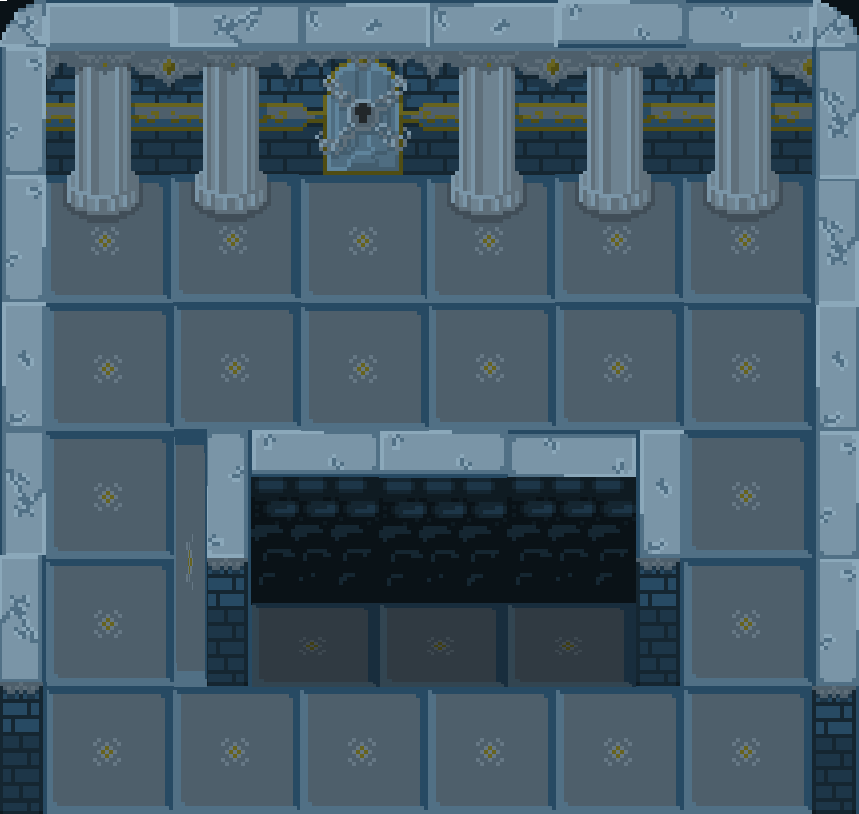
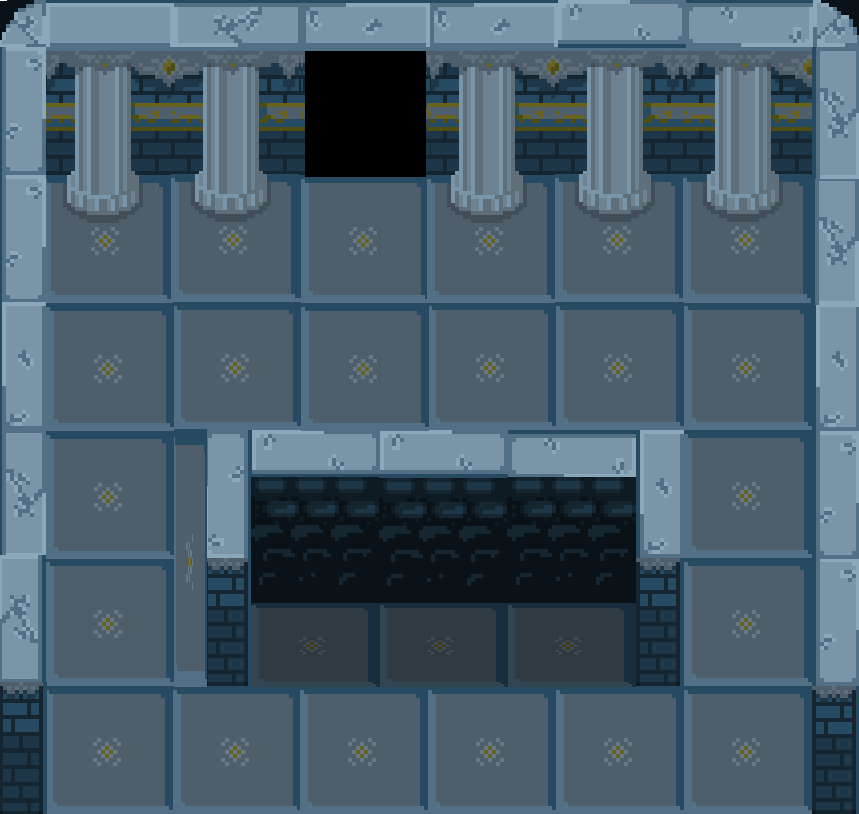
Brigham's Level finished

Changed region(s): [[0.3329, 0.0614, 0.5146, 0.215]]

diff --git a/src/main/java/game/BrighamLevel.java b/src/main/java/game/BrighamLevel.java
@@ -3,6 +3,7 @@ package game;
 import engine.display.Sprite;
 
 import java.awt.*;
+import java.awt.geom.Rectangle2D;
 import java.util.ArrayList;
 
 /**
@@ -20,9 +21,16 @@ public class BrighamLevel extends Room {
     Platform leftCollider;
     Platform collider3;
     Platform rightCollider;
-    Platform collider6;
-    Platform collider7;
-    Platform collider8;
+    Platform collider4;
+    Platform doorCollider;
+    Platform wallCollider;
+    Platform thinWallLeft;
+    Platform thinWallRight;
+
+    Enemy enemy01;
+    Enemy enemy02;
+    Enemy enemy03;
+
 
     LockedDoor door1;
 
@@ -31,24 +39,85 @@ public class BrighamLevel extends Room {
     }
 
     public void run() {
+        enemy01 = new Enemy("enemy", "resources/gator_sheet.png", "idle left");
+        enemy01.setSpriteSheetJson("resources/gator_sheet.json");
+        enemy01.setDelay(75);
+        enemy01.setPositionX(250);
+        enemy01.setPositionY(680);
+        enemy01.addRoute(0, 1100, 2, 1);
+        enemy01.addRoute(800, 0, 4, 2);
+        enemy01.addRoute(0, -300, 2, 3);
+        enemy01.addRoute(-800, 0, 2, 4);
+        enemy01.addRoute(0, -800, 2, 3);
+
+        enemy01.addRoute(0, 1100, 10, 1);
+        enemy01.addRoute(800, 0, 1, 2);
+        enemy01.addRoute(0, -300, 5, 3);
+        enemy01.addRoute(-800, 0, 4, 4);
+        enemy01.addRoute(0, -800, 4, 3);
+        enemy01.addKey();
+
+        enemy02 = new Enemy("enemy", "resources/gator_sheet.png","idle left");
+        enemy02.setSpriteSheetJson("resources/gator_sheet.json");
+        enemy02.setDelay(75);
+        enemy02.setPositionX(900);
+        enemy02.setPositionY(200);
+        enemy02.addRoute(0,-800,2,3);
+        enemy02.addRoute(0,800,4,1);
+        enemy02.addRoute(3,0,0,2);
+
+        enemy03 = new Enemy("enemy", "resources/gator_sheet.png","idle left");
+        enemy03.setSpriteSheetJson("resources/gator_sheet.json");
+        enemy03.setDelay(75);
+        enemy03.setPositionX(800);
+        enemy03.setPositionY(300);
+        enemy03.addRoute(-800,0,2,3);
+        enemy03.addRoute(800,0,2,2);
+
+
+
+
+//        enemy02 = new Enemy("enemy", "resources/gator_sheet.png", "idle left");
+//        enemy02.setSpriteSheetJson("resources/gator_sheet.json");
+//        enemy02.setDelay(75);
+//        enemy02.setPositionX(700);
+//        enemy02.setPositionY(150);
+//        enemy02.addRoute(0, -800, 2, 3);
+//        enemy02.addRoute(-400, 0, 2, 4);
+//        enemy02.addRoute(0, 800, 2, 1);
+//        enemy02.addRoute(400, 0, 2, 2);
+//        enemy02.addKnife();
+
+        enemies = new ArrayList<>();
+        enemies.add(enemy01);
+        enemies.add(enemy02);
+        enemies.add(enemy03);
+//        enemies.add(enemy02);
+
+
         //map stuff
         map = new Sprite("map", "BrighamLevelFinal.png");
         map.setPositionX(200);
         map.setPositionY(0);
         addChild(map);
 
+        door1 = new LockedDoor("door", "resources/door_opening.png", "door_closed");
+        door1.setSpriteSheetJson("resources/door_opening.json");
+        door1.setDelay(100);
+        door1.setPositionX(500);
+        door1.setPositionY(50);
+        addChild(door1);
+
         startTile = new Sprite("startTile", "tile.png");
         startTile.setPositionX(500);
         startTile.setPositionY(810);
 
         collider1 = new Platform("collider", "alpha_3x1.png");
-        //collider4.setRotation(0.9);
-        collider1.setPositionX(650);
+        collider1.setPositionX(640);
         collider1.setPositionY(-20);
         addChild(collider1);
 
         collider2 = new Platform("collider", "alpha_2x1.png");
-
         collider2.setPositionX(200);
         collider2.setPositionY(-20);
         addChild(collider2);
@@ -58,6 +127,11 @@ public class BrighamLevel extends Room {
         collider3.setPositionY(-20);
         addChild(collider3);
 
+        collider4 = new Platform("collider", "alpha_2x1.png");
+        collider4.setPositionX(270);
+        collider4.setPositionY(-20);
+        addChild(collider4);
+
         leftCollider = new Platform("collider","alpha_1x6.png");
         leftCollider.setPositionX(102);
         leftCollider.setPositionY(-20);
@@ -66,6 +140,31 @@ public class BrighamLevel extends Room {
         rightCollider = new Platform("collider","alpha_1x6.png");
         rightCollider.setPositionX(1006);
         rightCollider.setPositionY(-20);
+        addChild(rightCollider);
+
+        doorCollider = new Platform("collider", "alpha_2x1.png");
+        doorCollider.setPositionX(456);
+        doorCollider.setPositionY(-50);
+        addChild(doorCollider);
+
+        wallCollider = new Platform("collider", "alpha_3x1.png");
+        wallCollider.setPositionX(450);
+        wallCollider.setPositionY(410);
+        addChild(wallCollider);
+
+        thinWallLeft = new Platform("collider", "alpha_thinWallLong.png");
+        thinWallLeft.setPositionX(wallCollider.getPositionX()-thinWallLeft.getUnscaledWidth()+10);
+        thinWallLeft.setPositionY(400);
+        addChild(thinWallLeft);
+
+        thinWallRight = new Platform("collider", "alpha_thinWallLong.png");
+        thinWallRight.setPositionX(wallCollider.getPositionX()+wallCollider.getUnscaledWidth()-10);
+        thinWallRight.setPositionY(400);
+        addChild(thinWallRight);
+
+        coverList = new ArrayList<>(); //list of cover sprites
+
+
 
 
 
@@ -73,8 +172,26 @@ public class BrighamLevel extends Room {
         collisionArray.add(collider1);
         collisionArray.add(collider2);
         collisionArray.add(collider3);
+        collisionArray.add(collider4);
         collisionArray.add(leftCollider);
         collisionArray.add(rightCollider);
+        collisionArray.add(doorCollider);
+        collisionArray.add(wallCollider);
+        collisionArray.add(thinWallLeft);
+        collisionArray.add(thinWallRight);
+        //collisionArray.add(door1);
+
+        coverList.add(convertToCover(collider1));
+        coverList.add(convertToCover(collider2));
+        coverList.add(convertToCover(collider3));
+        coverList.add(convertToCover(leftCollider));
+        coverList.add(convertToCover(rightCollider));
+        coverList.add(convertToCover(wallCollider));
+        coverList.add(convertToCover(doorCollider));
+        coverList.add(convertToCover(thinWallLeft));
+        coverList.add(convertToCover(thinWallRight));
+
+        doors.add(door1);
 
 
     }
@@ -84,6 +201,7 @@ public class BrighamLevel extends Room {
         super.draw(g);
         map.draw(g);
         startTile.draw(g);
+        door1.draw(g);
 
 //        collider1.draw(g);
 //        collider2.draw(g);
@@ -102,6 +220,14 @@ public class BrighamLevel extends Room {
 
     public void update() {
         super.update();
-//        door1.update();
+        door1.update();
+    }
+
+    public ArrayList<Rectangle2D> getCoverList(){
+        return coverList;
+    }
+
+    public ArrayList<Platform> getCollisionArray(){
+        return collisionArray;
     }
 }

diff --git a/src/main/java/game/ProjectGame.java b/src/main/java/game/ProjectGame.java
@@ -68,7 +68,7 @@ public class ProjectGame extends Game {
     Level1 myLevel1;
     BrighamLevel myLevel3;
 
-    ArrayList<Bullet> playerBullets = new ArrayList<Bullet>();
+    ArrayList<Bullet> playerBullets = new ArrayList<>();
     ArrayList<Enemy> enemies;
 
     Enemy pickpocketEnemy;
@@ -186,6 +186,7 @@ public class ProjectGame extends Game {
         }
          if(currentLevel == 3){
              myLevel3 = new BrighamLevel("Room3");
+             addChild(myLevel3);
              myLevel3.run();
              currentRoom = myLevel3;
          }

diff --git a/src/main/java/game/Room.java b/src/main/java/game/Room.java
@@ -23,18 +23,16 @@ public class Room extends DisplayObjectContainer{
     boolean doneFading;
 
     ArrayList<Rectangle2D> coverList;
-    public ArrayList<Platform> collisionArray = new ArrayList<>();
+    ArrayList<Platform> collisionArray = new ArrayList<>();
 
 
     private static double fadeSpeed = 0.01;
 
     public Room(String id) {
         super(id);
-        doors = new ArrayList<LockedDoor>();
-
+        doors = new ArrayList<>();
         fadingIn = false;
         fadingOut = false;
-
         doneFading = false;
     }
 

diff --git a/src/main/java/game/Enemy.java b/src/main/java/game/Enemy.java
@@ -47,7 +47,7 @@ public class Enemy extends AnimatedSprite implements IEventListener {
     double previousPositionY;
 
     int pauseTime;
-    int pauseCap = 150;
+    int pauseCap = 0;
 
 
     /*****Inventory Stuff*****/
